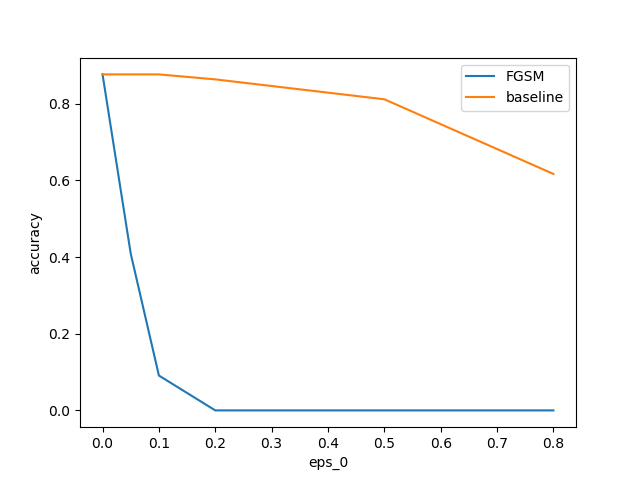
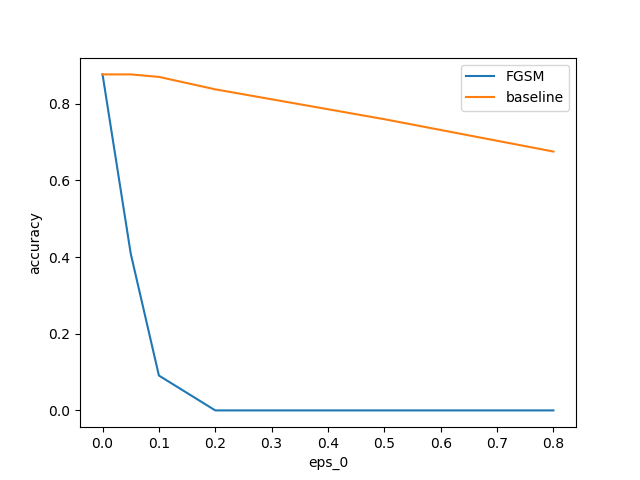
revise

Changed region(s): [[0.2188, 0.125, 0.7188, 0.2812], [0.7188, 0.2812, 0.8438, 0.3438], [0.8438, 0.3438, 0.875, 0.375]]

diff --git a/kadai4.py b/kadai4.py
@@ -132,13 +132,13 @@ def fgsm_img(params, img, t, eps_0=0.1):
     return img_fgsm
 
 
-def execute_fgsm_repeat(params, labels, eps_0=0.01, repeat_count=0):
+def execute_fgsm_repeat(params, labels, eps_0=0.01, repeat_count=1):
     predicts_fgsm = np.zeros(len(labels))
     predicts_baseline = np.zeros(len(labels))
     for i in tqdm(range(len(labels)), desc='eps_0={}'.format(eps_0)):
         img = read_img("pgm/{}.pgm".format(i+1))
-        img_fgsm = fgsm_img(params, img, labels[i], eps_0)
-        img_baseline = baseline_img(img, eps_0)
+        img_fgsm = img.copy()
+        img_baseline = img.copy()
         for _ in range(repeat_count):
             img_fgsm = fgsm_img(params, img_fgsm, labels[i], eps_0)
             img_baseline = baseline_img(img_baseline, eps_0)
@@ -233,11 +233,11 @@ def fgsm_img_ensemble(params_list, img, t, eps_0=0.1, weighted_sum=True):
         for i, params in enumerate(params_list):
             nabla_x[i], f_x[i] = predict_with_backward(
                 params, img, t, return_prob=True)
-        nabla_x = nabla_x.T @ f_x[:, t]
+        nabla_x = nabla_x.T @ f_x[:, t] / np.sum(f_x[:, t])
     else:
         for params in params_list:
             nabla_x += predict_with_backward(params, img, t)
-    nabla_x /= len(params_list)
+        nabla_x /= len(params_list)
     img_fgsm = img + eps_0 * sign(nabla_x)
     return img_fgsm
 
